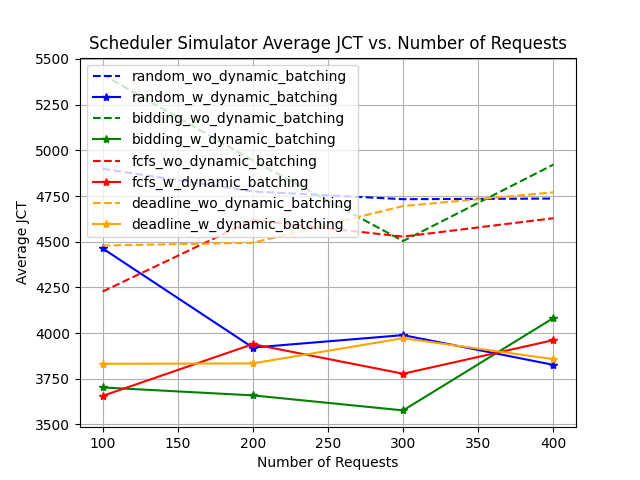
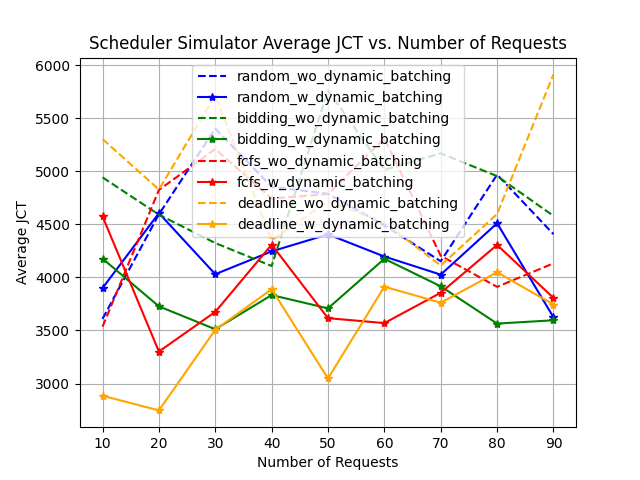
add offline solver

diff --git a/scheduler.py b/scheduler.py
@@ -2,6 +2,7 @@ import random
 import numpy as np  
 import gurobipy as gp  
 from gurobipy import GRB 
+import matplotlib.pyplot as plt
   
   
 class Request:  
@@ -32,6 +33,7 @@ class SchedulerSimulator:
         self.total_completion_time = 0 
         self.scheduling_policy = scheduling_policy  
         self.batching_policy = batching_policy
+        self.iteration = 0
   
     def calculate_delay(self, batch_size):  
         if batch_size in self.inference_delays:  
@@ -42,46 +44,52 @@ class SchedulerSimulator:
     def offline_optimal_scheduler(self, processing_requests):  
         if not processing_requests:  
             return [], 1  
-        model = gp.Model("OfflineOptimal")  
+        
+        best_selected_requests = []
+        best_batch_size = 1
+        max_goodput = -1
+        
+        for batch_size in self.inference_delays.keys():
+            model = gp.Model("OfflineOptimal")  
+            model.setParam('OutputFlag', 0)  # Turn off Gurobi output
 
-        # Add time limit for the Gurobi solver (in seconds)  
-        time_limit = 10  # Set your desired time limit here  
-        model.setParam('TimeLimit', time_limit) 
+            num_requests = len(processing_requests)  
+            max_iterations = int(max(req.tokens for req in processing_requests) // self.inference_delays[batch_size]) + 1
+            
+            x = model.addVars(num_requests, max_iterations, vtype=GRB.BINARY, name="x")  
+            C = model.addVars(num_requests, vtype=GRB.BINARY, name="C")  
+        
+            model.setObjective(sum(C[i] for i in range(num_requests)), GRB.MAXIMIZE)  
+        
+            # Constraints   
+            for i in range(num_requests):  
+                req = processing_requests[i]  
+                delay_key = min((key for key in self.inference_delays if key >= req.tokens), default=batch_size)
+                iterations_required = int(req.tokens // self.inference_delays[delay_key]) + 1
+                for j in range(max_iterations):  
+                    if j < iterations_required:  
+                        model.addConstr(x[i, j] == 1)  
+                    else:  
+                        model.addConstr(x[i, j] == 0)  
+                model.addConstr(sum(x[i, j] for j in range(max_iterations)) >= req.tokens * C[i])  
+        
+            # Add time limit for the Gurobi solver (in seconds)  
+            time_limit = 0.01  # Set your desired time limit here  
+            model.setParam(GRB.Param.TimeLimit, time_limit) 
+        
+            model.update()  
+            model.optimize()  
+        
+            if model.status == GRB.OPTIMAL:  
+                selected_requests = [processing_requests[i] for i in range(num_requests) if C[i].X == 1]
+                goodput = sum(1 for req in selected_requests if req.deadline >= self.current_time + self.calculate_delay(batch_size)*req.tokens)
+                if goodput > max_goodput:
+                    best_selected_requests = selected_requests
+                    best_batch_size = batch_size
+                    max_goodput = goodput
+        
+        return best_selected_requests, best_batch_size
     
-        num_requests = len(processing_requests)  
-        num_timeslots = max([req.deadline for req in processing_requests])  
-    
-        x = model.addVars(num_requests, num_requests, vtype=GRB.BINARY, name="x")  
-        C = model.addVars(num_requests, vtype=GRB.BINARY, name="C")  
-    
-        model.setObjective(sum(C[i] for i in range(num_requests)), GRB.MAXIMIZE)  
-
-        # Initialize variables  
-        x = {}  
-        for i in range(num_requests):  
-            for j in range(num_timeslots):  
-                x[i, j] = model.addVar(vtype=GRB.BINARY, name=f"x_{i}_{j}")  
-    
-        # Constraints   
-        for i in range(num_requests):  
-            req = processing_requests[i]  
-            for j in range(num_timeslots):  
-                if req.arrival_time > j or req.deadline <= j:  
-                    model.addConstr(x[i, j] == 0)  
-            model.addConstr(sum(x[i, j] for j in range(num_timeslots)) >= req.tokens * C[i])  
-
-        model.update()  
-        model.optimize()  
-    
-        if model.status == GRB.OPTIMAL:  
-            batch_size = sum(x[i, j].x for i in range(num_requests) for j in range(num_requests))  
-            selected_requests = [processing_requests[i] for i in range(num_requests) if C[i].x == 1]  
-        else:  
-            batch_size = 1  
-            selected_requests = []  
-    
-        return selected_requests, batch_size  
-  
     def scheduler(self, processing_requests):  
         selected_requests = []  
     
@@ -116,10 +124,16 @@ class SchedulerSimulator:
             for batch_size in range(1, len(self.inference_delays) + 1):  
                 # Select current batch of requests for the given batch size.  
                 current_requests = processing_requests[:batch_size]  
+                # Round the actual batch size to the smallest profiled delay key
+                actual_batch_size = min(len(current_requests), batch_size)
+                for key in self.inference_delays:
+                    if key >= actual_batch_size:
+                        actual_batch_size = key
+                        break
         
                 # Calculate the number of requests that can be processed within their deadlines.  
                 num_requests_within_deadline = sum(  
-                    req.deadline >= self.current_time + self.calculate_delay(batch_size)*req.tokens  
+                    req.deadline >= self.current_time + self.calculate_delay(actual_batch_size)*req.tokens  
                     for req in current_requests  
                 )  
         
@@ -135,6 +149,8 @@ class SchedulerSimulator:
         return selected_requests, best_batch_size  
   
     def run_one_iteration(self, processing_requests, goodput):  
+        print(self.iteration)
+        self.iteration += 1
         selected_requests, batch_size = self.scheduler(processing_requests)  
   
         for req in selected_requests:  
@@ -152,7 +168,9 @@ class SchedulerSimulator:
     def run_simulation(self): 
         goodput = 0  
         processing_requests = []  
-  
+        
+        interval = 100
+        cnt = 0
         while self.requests or processing_requests:    
             arrived_requests = [req for req in self.requests if req.arrival_time <= self.current_time]  
             processing_requests.extend(arrived_requests)  
@@ -160,8 +178,15 @@ class SchedulerSimulator:
             #print('Total Requests:', len(self.requests), 'Processing Requests:', len(processing_requests))
   
             _, goodput = self.run_one_iteration(processing_requests, goodput)  
+
+            #if cnt < interval:
+            #    cnt += 1
+            #else:
+            #    cnt = 0
+            #    self.plot(processing_requests, goodput)
         
         average_jct = self.total_completion_time / goodput  # Calculate average JCT 
+
   
         return goodput, average_jct  
   
@@ -178,3 +203,20 @@ class SchedulerSimulator:
         ]  
         return requests  
 
+    def plot(self, processing_requests, goodput):
+        fig, ax = plt.subplots()
+        
+        # Filter out inactive requests
+        active_requests = [req for req in processing_requests if req.arrival_time <= self.current_time and req.deadline >= self.current_time]
+
+        # Add data to the plot
+        x = [req.arrival_time for req in active_requests]
+        y = [req.tokens for req in active_requests]
+        sc = ax.scatter(x, y, c='blue', label='Active Requests')
+
+        ax.set_xlabel('Arrival Time')
+        ax.set_ylabel('Tokens')
+        ax.set_title(f'Current Time: {self.current_time}, Goodput: {goodput}')
+        ax.legend()
+
+        plt.show()

diff --git a/run_scheduler.py b/run_scheduler.py
@@ -32,7 +32,7 @@ def plot_results(x_values, y_values, xlabel, ylabel, title, filename):
     plt.clf()  
   
 if __name__ == "__main__":  
-    num_requests_values = list(range(100, 500, 100))  
+    num_requests_values = list(range(10, 100, 10))  
   
     # Define colors for each scheduling policy  
     color_map = {  
